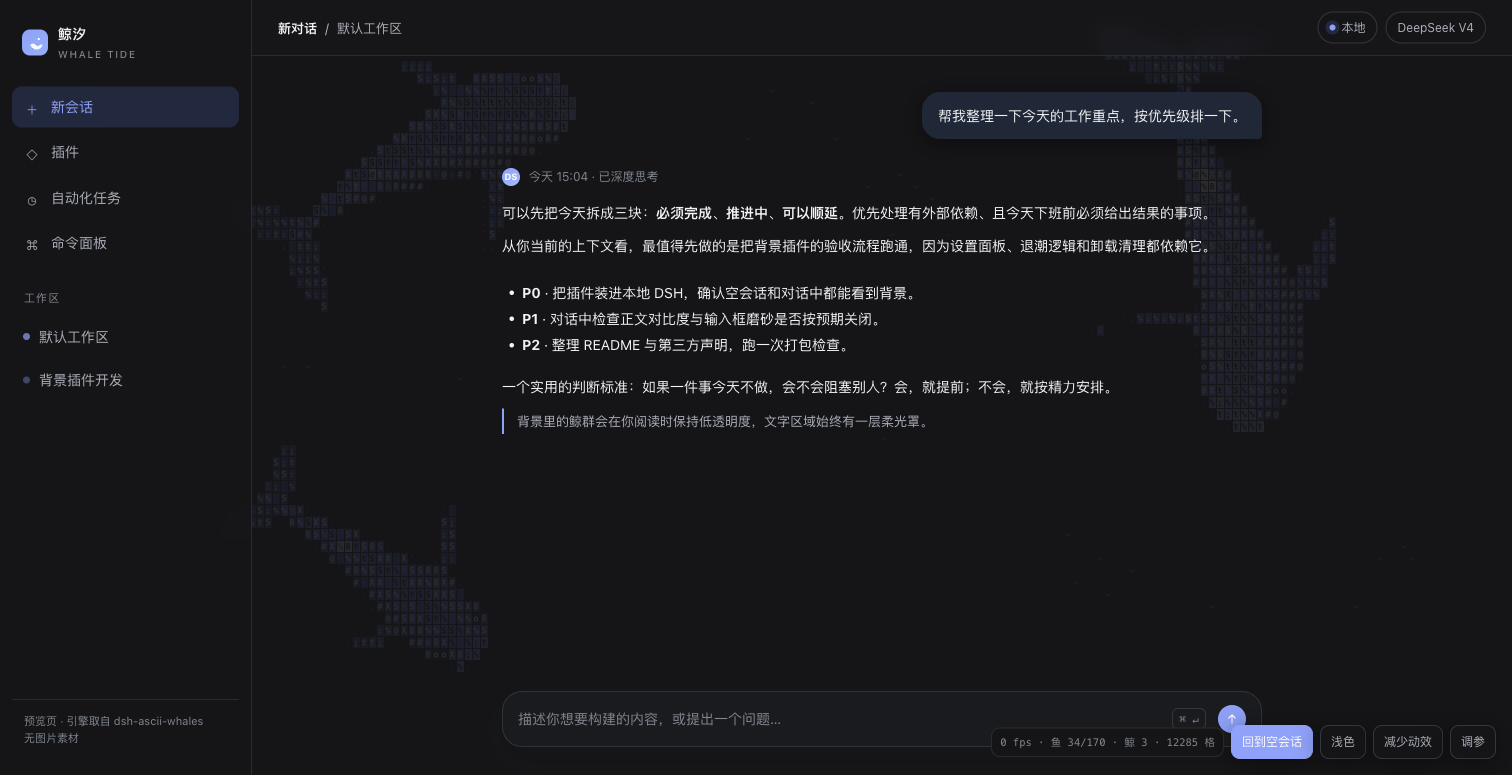
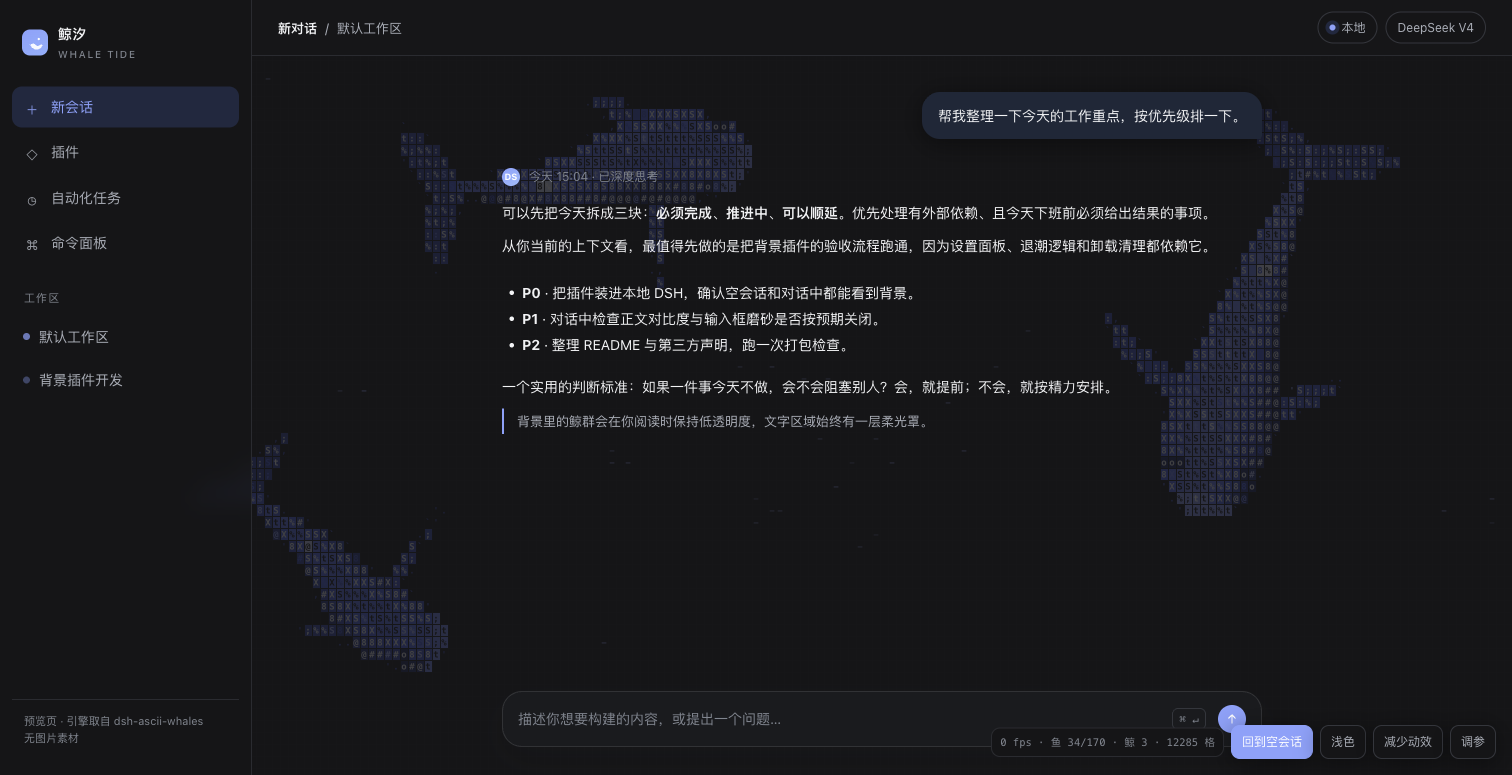
fix: raise conversation opacity default to 0.20 for real-display visibility (0.4.1)

diff --git a/lib/client.js b/lib/client.js
@@ -2302,13 +2302,15 @@ var OceanEngine = class {
     const NS = "whale-tide";
     const STORAGE_KEY = "dsh-whale-tide:v1";
     const SCHEME_KEY = "dsh-whale-tide:scheme";
+    const SCHEMA_KEY = "dsh-whale-tide:schema";
+    const SCHEMA_VERSION = "2";
 
     const DEFAULTS = {
       // ── tide (this plugin) ────────────────────────────────────────────
       enabled: true,
       density: 0.65,
       opacity: 1,
-      conversationOpacity: 0.10,
+      conversationOpacity: 0.20,
       conversationDensity: 0.3,
       followTheme: true,
       // ── whale ─────────────────────────────────────────────────────────
@@ -2423,26 +2425,38 @@ var OceanEngine = class {
     }
 
     /**
-     * 0.4.0: the conversation default dropped from 0.16 to 0.10 and the
-     * per-message halo was removed. Migrate only the old default so custom
-     * values survive.
+     * 0.4.1: 0.10 turned out to be nearly invisible on real displays (blue at
+     * 10% over white is ~#eef0ff). 0.20 keeps the whales visible without any
+     * halo. Migrate both old defaults once, keyed by a schema marker, so a
+     * value the user chose afterwards is never rewritten.
      */
-    function migrateSettings(value) {
+    function migrateSettings(value, schemaOld) {
       if (!value || typeof value !== "object" || Array.isArray(value)) return value;
       const out = { ...value };
-      if (out.conversationOpacity === 0.16) out.conversationOpacity = 0.10;
+      if (schemaOld && (out.conversationOpacity === 0.16 || out.conversationOpacity === 0.10)) {
+        out.conversationOpacity = 0.20;
+      }
       return out;
     }
 
     function loadSettings() {
       try {
+        const schemaOld = window.localStorage.getItem(SCHEMA_KEY) !== SCHEMA_VERSION;
         const raw = window.localStorage.getItem(STORAGE_KEY);
-        if (!raw) return { ...DEFAULTS };
+        if (!raw) {
+          try {
+            window.localStorage.setItem(SCHEMA_KEY, SCHEMA_VERSION);
+          } catch (error) {
+            /* optional */
+          }
+          return { ...DEFAULTS };
+        }
         const parsed = JSON.parse(raw);
-        const migrated = migrateSettings(parsed);
-        if (migrated !== parsed) {
+        const migrated = migrateSettings(parsed, schemaOld);
+        if (migrated !== parsed || schemaOld) {
           try {
             window.localStorage.setItem(STORAGE_KEY, JSON.stringify(migrated));
+            window.localStorage.setItem(SCHEMA_KEY, SCHEMA_VERSION);
           } catch (error) {
             /* keep the in-memory migration */
           }
@@ -2706,7 +2720,7 @@ var OceanEngine = class {
       hintEnabled: "关闭后移除背景层，界面恢复原生样式",
       hintDensity: "空会话中显示的鱼群比例",
       hintOpacity: "空会话中的背景不透明度",
-      hintConversationOpacity: "进入对话后的背景不透明度（默认 0.10）",
+      hintConversationOpacity: "进入对话后的背景不透明度（默认 0.20）",
       hintConversationDensity: "进入对话后保留的鱼群比例（默认 0.3）",
       hintFollowTheme: "开启时跟随 DSH 深浅色；关闭时固定为关闭时的深浅色",
       hintCount: "同时游动的鲸鱼数量",
@@ -2775,7 +2789,7 @@ var OceanEngine = class {
       hintEnabled: "Turn off to remove the layer and restore the native interface.",
       hintDensity: "Share of the school shown in an empty conversation.",
       hintOpacity: "Layer opacity in an empty conversation.",
-      hintConversationOpacity: "Layer opacity while a conversation is active (default 0.10).",
+      hintConversationOpacity: "Layer opacity while a conversation is active (default 0.20).",
       hintConversationDensity: "Share of fish kept while a conversation is active (default 0.3).",
       hintFollowTheme: "On: follow DSH. Off: pin the mode active when switched off.",
       hintCount: "How many whales swim at once.",

diff --git a/tools/preview.html b/tools/preview.html
@@ -2489,13 +2489,15 @@ var OceanEngine = class {
     const NS = "whale-tide";
     const STORAGE_KEY = "dsh-whale-tide:v1";
     const SCHEME_KEY = "dsh-whale-tide:scheme";
+    const SCHEMA_KEY = "dsh-whale-tide:schema";
+    const SCHEMA_VERSION = "2";
 
     const DEFAULTS = {
       // ── tide (this plugin) ────────────────────────────────────────────
       enabled: true,
       density: 0.65,
       opacity: 1,
-      conversationOpacity: 0.10,
+      conversationOpacity: 0.20,
       conversationDensity: 0.3,
       followTheme: true,
       // ── whale ─────────────────────────────────────────────────────────
@@ -2614,25 +2616,30 @@ var OceanEngine = class {
      * per-message halo was removed. Migrate only the old default so custom
      * values survive.
      */
-    function migrateSettings(value) {
+    function migrateSettings(value, schemaOld) {
       if (!value || typeof value !== "object" || Array.isArray(value)) return value;
       const out = { ...value };
-      if (out.conversationOpacity === 0.16) out.conversationOpacity = 0.10;
+      if (schemaOld && (out.conversationOpacity === 0.16 || out.conversationOpacity === 0.10)) {
+        out.conversationOpacity = 0.20;
+      }
       return out;
     }
 
     function loadSettings() {
       try {
+        const schemaOld = window.localStorage.getItem(SCHEMA_KEY) !== SCHEMA_VERSION;
         const raw = window.localStorage.getItem(STORAGE_KEY);
-        if (!raw) return { ...DEFAULTS };
+        if (!raw) {
+          try { window.localStorage.setItem(SCHEMA_KEY, SCHEMA_VERSION); } catch (error) { /* optional */ }
+          return { ...DEFAULTS };
+        }
         const parsed = JSON.parse(raw);
-        const migrated = migrateSettings(parsed);
-        if (migrated !== parsed) {
+        const migrated = migrateSettings(parsed, schemaOld);
+        if (migrated !== parsed || schemaOld) {
           try {
             window.localStorage.setItem(STORAGE_KEY, JSON.stringify(migrated));
-          } catch (error) {
-            /* keep the in-memory migration */
-          }
+            window.localStorage.setItem(SCHEMA_KEY, SCHEMA_VERSION);
+          } catch (error) { /* keep the in-memory migration */ }
         }
         return normalizeSettings(migrated);
       } catch (error) {

diff --git a/lib/settings.js b/lib/settings.js
@@ -18,7 +18,7 @@ export const DEFAULTS = Object.freeze({
   enabled: true,
   density: 0.65,
   opacity: 1,
-  conversationOpacity: 0.10,
+  conversationOpacity: 0.20,
   conversationDensity: 0.3,
   followTheme: true,
   // whales (upstream)
@@ -110,7 +110,7 @@ export const HINTS = Object.freeze({
   enabled: "Turn off to remove the layer and restore the native interface.",
   density: "Share of the school shown in an empty conversation.",
   opacity: "Layer opacity in an empty conversation.",
-  conversationOpacity: "Layer opacity while a conversation is active (default 0.10).",
+  conversationOpacity: "Layer opacity while a conversation is active (default 0.20).",
   conversationDensity: "Share of fish kept while a conversation is active (default 0.3).",
   followTheme: "On: follow DSH. Off: pin the mode active when switched off.",
   count: "How many whales swim at once.",
@@ -172,10 +172,12 @@ export function normalize(value) {
  * 0.4.0 migration: the old default conversation opacity was 0.16; the halo
  * removal lowered it to 0.10. Only the old default is migrated.
  */
-export function migrate(value) {
+export function migrate(value, schemaOld = true) {
   if (!value || typeof value !== "object" || Array.isArray(value)) return value;
   const out = { ...value };
-  if (out.conversationOpacity === 0.16) out.conversationOpacity = 0.10;
+  if (schemaOld && (out.conversationOpacity === 0.16 || out.conversationOpacity === 0.10)) {
+    out.conversationOpacity = 0.20;
+  }
   return out;
 }
 

diff --git a/test/settings.test.js b/test/settings.test.js
@@ -45,9 +45,11 @@ test("tide defaults stay as shipped", () => {
   assert.equal(DEFAULTS.followTheme, true);
 });
 
-test("migrate lowers only the old 0.16 conversation default", () => {
-  assert.equal(migrate({ conversationOpacity: 0.16 }).conversationOpacity, 0.10);
+test("migrate raises only known old defaults to 0.20", () => {
+  assert.equal(migrate({ conversationOpacity: 0.16 }).conversationOpacity, 0.20);
+  assert.equal(migrate({ conversationOpacity: 0.10 }).conversationOpacity, 0.20);
   assert.equal(migrate({ conversationOpacity: 0.22 }).conversationOpacity, 0.22);
+  assert.equal(migrate({ conversationOpacity: 0.10 }, false).conversationOpacity, 0.10);
   assert.equal(migrate(null), null);
 });
 

diff --git a/docs/design.md b/docs/design.md
@@ -1,6 +1,6 @@
 # 设计说明
 
-本文说明鲸汐（Whale Tide）0.4.0 的架构、相位模型、渲染流水线、性能取舍与验证边界。
+本文说明鲸汐（Whale Tide）0.4.1 的架构、相位模型、渲染流水线、性能取舍与验证边界。
 需求与验收见仓库根目录 README；这里记录“为什么这样做”。
 
 ## 1. 目标与非目标
@@ -294,7 +294,7 @@ null；代码同时兼容“同节点”与“嵌套”两种形式。
 背景底色、侧栏 token、正文 text-shadow、磨砂底色、画布调色板都按这两个属性
 分浅/深两套；切换时只更新属性与引擎 `setAppearance`，不重建引擎。
 
-### 4.9 对话可读性（0.4.0）
+### 4.9 对话可读性（0.4.1）
 
 对话界面保留 dsh-quiet 的表面处理，但**不再使用文字光晕/柔光片**：
 
@@ -302,8 +302,9 @@ null；代码同时兼容“同节点”与“嵌套”两种形式。
    `bg-layer-1` 0.84/0.88，`bg-layer-2/3` 保持不透明（弹层可读），sidebar
    0.55/0.60，气泡 0.92/0.90，label 与 border 全套。共 14 项。
 2. **无正文罩层**：不挂 `.dshwt-prose`，不加 `text-shadow`。对话中的
-   `conversationOpacity` 默认从 0.16 降到 **0.10**，让海面自己退到背景；
-   `tools/preview.html` 里对应的模拟文字也去掉了 `::before` 光晕。
+   `conversationOpacity` 默认 **0.20**（0.10 在真实显示器上几乎看不见：
+   蓝色 10% 叠白只剩 #eef0ff）；`tools/preview.html` 里对应的模拟文字也
+   去掉了 `::before` 光晕。
 3. **输入框与弹层**：对话中 `[data-composer-card]` 0.74/0.78 + blur 3px，
    `[data-trigger-menu]` 强制不透明，DPR≥2 边框 0.5px。
 
@@ -311,8 +312,9 @@ null；代码同时兼容“同节点”与“嵌套”两种形式。
 灰度海面上是柔光；我们的鲸鱼是**整块高对比蓝色块**，同样的 70% 白底 + 22px
 阴影会变成一块块明显的白卡片，两段之间还会连成大白板。对照图见
 `docs/design-options/`。0.4.0 改用“更深退潮”，正文区域完全干净。
-迁移：旧设置里的 `conversationOpacity === 0.16`（旧默认）会一次性改为 0.10；
-用户自定义的其他值保留。
+迁移：`dsh-whale-tide:schema` 标记为 v2；旧设置里的
+`conversationOpacity === 0.16`（0.3 旧默认）或 `0.10`（0.4.0 中间默认）
+会一次性改为 0.20，之后用户再改的值不会被重写。
 
 ## 5. 性能取舍
 
@@ -360,7 +362,7 @@ null；代码同时兼容“同节点”与“嵌套”两种形式。
   - 对话可读性（0.4.0）：`--dsw-alias-bg-layer-1` 在浅色为
     `rgba(255,255,255,0.84)`、深色 `rgba(23,24,28,0.88)`；气泡
     `rgba(237,243,254,0.92)`；composer `rgba(255,255,255,0.74)` +
-    `blur(3px)`（深色 0.78）；对话中 layer opacity 为 0.10，无 `.dshwt-prose`
+    `blur(3px)`（深色 0.78）；对话中 layer opacity 为 0.20，无 `.dshwt-prose`
     节点、无 text-shadow；关闭插件后 token 回到原生 `#232324`（深色）/
     `#2c2c2e`；
   - 减少动效：CDP 模拟 `prefers-reduced-motion: reduce` 后，两次间隔 1.5 s 的

diff --git a/README.en.md b/README.en.md
@@ -38,7 +38,7 @@ the empty conversation the fish swim back in from the edges.
   the fish remain.
 - **Conversation readability** — 14 host surface tokens (bg layers, bubble,
   borders, labels) become lightly translucent and the conversation background
-  opacity drops to 0.10 by default; there is **no text halo or panel** over
+  opacity is 0.20 by default (0.10 proved nearly invisible on real displays); there is **no text halo or panel** over
   the prose. The composer keeps a 0.74/0.78 frosted tint with 3px blur,
   popovers stay opaque and borders are 0.5px at DPR>=2.
 - **Configurable** — exactly eight settings, applied live, saved in
@@ -73,11 +73,11 @@ From npm (once published):
 dsh plugin --profile <your-profile> add dsh-whale-tide
 ```
 
-From the 0.4.0 GitHub Release tarball:
+From the 0.4.1 GitHub Release tarball:
 
 ```bash
 dsh plugin --profile <your-profile> add \
-  https://github.com/MinEagle/dsh-whale-tide/releases/download/v0.4.0/dsh-whale-tide-0.4.0.tgz
+  https://github.com/MinEagle/dsh-whale-tide/releases/download/v0.4.1/dsh-whale-tide-0.4.1.tgz
 ```
 
 From a local checkout:
@@ -113,7 +113,7 @@ Four groups; changes apply live, persist in `localStorage`
 | Show background | on | on / off | Removes the layer and `body` attributes |
 | Opacity | 1.00 | 0–1 | Layer opacity in an empty conversation |
 | Creature density | 0.65 | 0–1 | Share of the school shown at high tide |
-| Opacity in conversation | 0.10 | 0–0.5 | Multiplier while active (0.10 since 0.4.0) |
+| Opacity in conversation | 0.20 | 0–0.5 | Multiplier while active (0.20 since 0.4.1) |
 | Creature ratio in conversation | 0.30 | 0–1 | Share of fish kept while active |
 | Follow light / dark | on | on / off | Off pins the mode active when switched off |
 
@@ -255,7 +255,7 @@ See [docs/design.md](docs/design.md).
   the `hero` state instead of breaking.
 - The UI exposes 24 settings from upstream; internal steering and hunger
   constants stay in the engine.
-- 0.4.0 is available as a GitHub Release tarball but not yet on the npm
+- 0.4.1 is available as a GitHub Release tarball but not yet on the npm
   registry; the repository also includes a local directory install and a
   packed `dist/*.tgz`.
 

diff --git a/docs/RELEASE.md b/docs/RELEASE.md
@@ -1,4 +1,4 @@
-# Release 0.4.0
+# Release 0.4.1
 
 Checklist for publishing Whale Tide.
 
@@ -17,7 +17,7 @@ Expected: 16 tests pass; the client parses; `package.json` has no
 
 ```bash
 npm pack --pack-destination dist
-tar -tzf dist/dsh-whale-tide-0.4.0.tgz | sort
+tar -tzf dist/dsh-whale-tide-0.4.1.tgz | sort
 ```
 
 The tarball must contain:
@@ -51,11 +51,11 @@ machine with access and the same `package.json`/`files` list.
 ## 4. GitHub release
 
 ```bash
-git tag v0.4.0
-git push origin v0.4.0
-gh release create v0.4.0 dist/dsh-whale-tide-0.4.0.tgz \
-  --title "Whale Tide 0.4.0" \
-  --notes-file docs/releases/0.4.0.md
+git tag v0.4.1
+git push origin v0.4.1
+gh release create v0.4.1 dist/dsh-whale-tide-0.4.1.tgz \
+  --title "Whale Tide 0.4.1" \
+  --notes-file docs/releases/0.4.1.md
 ```
 
 The release body should link:
@@ -68,7 +68,7 @@ The release body should link:
 ## 5. Post-publish smoke test
 
 ```bash
-dsh plugin --profile <profile> add dsh-whale-tide@0.4.0
+dsh plugin --profile <profile> add dsh-whale-tide@0.4.1
 ```
 
 Then:

diff --git a/docs/releases/0.4.1.md b/docs/releases/0.4.1.md
@@ -1,0 +1,19 @@
+# Whale Tide 0.4.1
+
+Visibility fix for the no-halo conversation mode.
+
+- 0.4.0 lowered `conversationOpacity` to 0.10. At 10% a blue whale body over
+  white is ~#eef0ff, which is almost invisible on real displays. The default
+  is now **0.20**, still with no halo or text-shadow.
+- One-time migration via a schema marker: stored values equal to the old
+  defaults (0.16 or 0.10) move to 0.20; values changed later by the user are
+  preserved.
+- `npm test` covers the migration; the live desktop app was re-checked in light
+  and dark.
+
+Install:
+
+```bash
+dsh plugin --profile <profile> add \
+  https://github.com/MinEagle/dsh-whale-tide/releases/download/v0.4.1/dsh-whale-tide-0.4.1.tgz
+```
